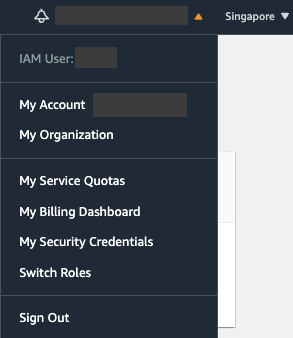
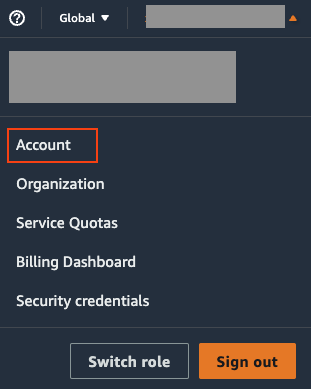
xj-document-1122

diff --git a/docs/connect-aws-account.md b/docs/connect-aws-account.md
@@ -35,11 +35,24 @@
 
 ### 第三步：添加 StompyAnalySaver 权限
 
-1. 进入 AWS 管理控制台后，点击右上角个人账号，选择**我的账号**，激活 IAM 用户和角色访问账单信息的权限。
+1. i. AWS 账户根用户：进入 AWS 管理控制台后，点击右上角个人账号，选择**账号**，**激活** IAM 用户和角色访问账单信息的权限。更多关于访问账单权限详情可[点击此处](https://docs.aws.amazon.com/awsaccountbilling/latest/aboutv2/control-access-billing.html#ControllingAccessWebsite-Activate)查看。
 
 ![img](/_images/aws-my-account.png)
 
 ![img](/_images/aws-activate-iam-access.png)
+
+  ii. IAM 用户：确保根用户已按上述步骤为 IAM 用户激活对账单信息的访问，可按以下步骤进入 AWS 管理控制台，添加用户的 IAM 策略以允许访问账单信息。
+
+![img](./_images/IAM1.png)
+
+![img](./_images/IAM2.png)
+
+![img](./_images/IAM3.png)
+
+![img](./_images/IAM4.png)
+
+![img](./_images/IAM5.png)
+
 
 2. 打开成本和使用率报告 Cost and Usage Reports（CUR）。
 
